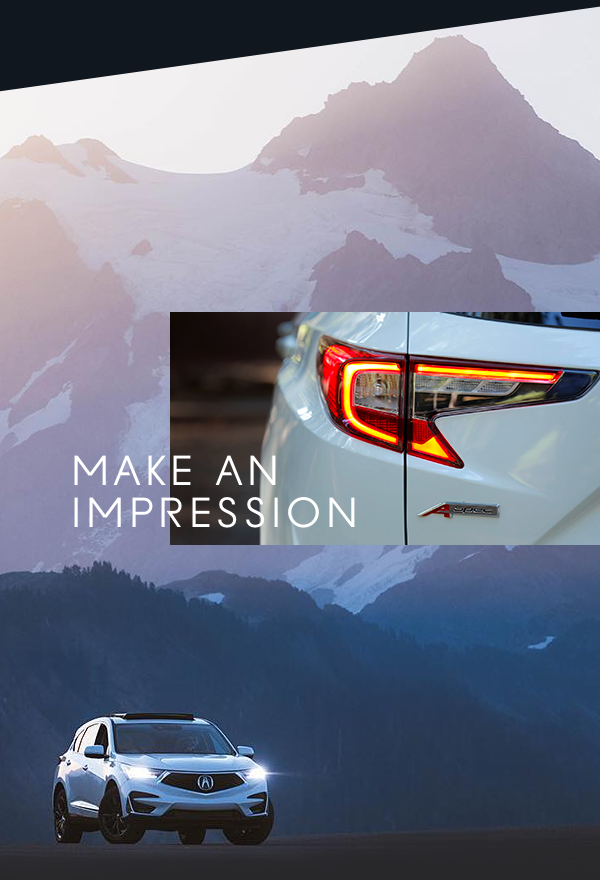
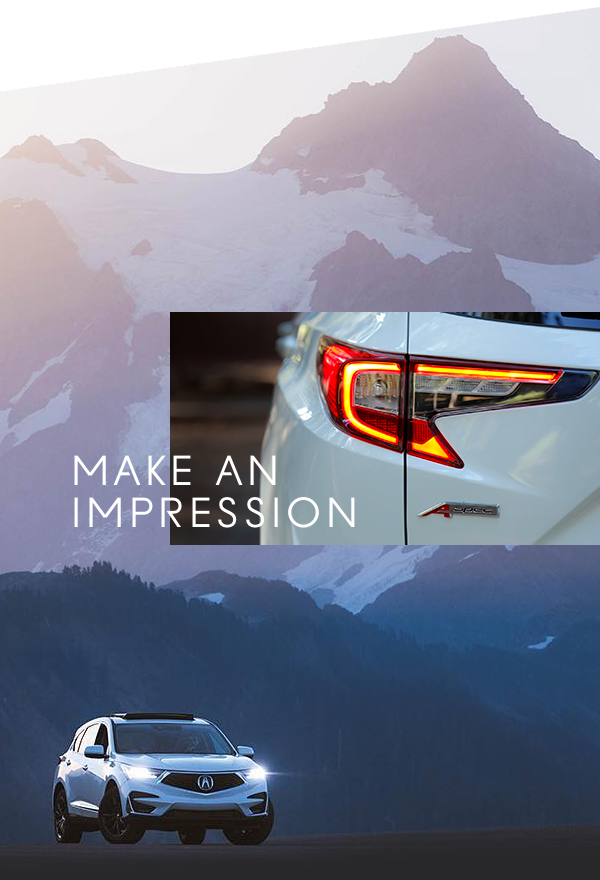
2019-March_RDX updates to images, txt and more

Changed region(s): [[0.0, 0.0, 1.0, 0.1227]]

diff --git a/review.web/Content/Review/2019-march_rdx_assets.html b/review.web/Content/Review/2019-march_rdx_assets.html
@@ -120,8 +120,8 @@
       }
 
       .acura-body-copy {
-        font-size: 17px !important;
-        line-height: 1.45 !important;
+        font-size: 20px !important;
+        line-height:30px !important;
       }
 
       /* .acura-button-inner-white {font-size: 20px !important;} */
@@ -253,10 +253,10 @@
               <!-- logo -->
               <tr>
                 <td>
-                  <a style="margin:0;padding:0; border:none;text-decoration:none;text-align:center;" href="https://www.acura.com/?SP_RID=%%RECIPIENT_ID%%&amp;SP_MID=%%MAILING_ID%%&amp;PROGRAMID=%%PROGID%%&amp;CAMPAIGNCODE=%%CAMPAIGNCODE%%&amp;OFFERCODE=%%OFFERCODE%%&amp;CELLCODE=%%CELL%%&amp;PID=%%PID%%&amp;LINKNAME=%%LINK_NAME%%"
+                  <a style="margin:0;padding:0; border:none;text-decoration:none;text-align:center;" href="https://www.acura.com/?SP_RID=%%RECIPIENT_ID%%&;SP_MID=%%MAILING_ID%%&;PROGRAMID=%%PROGID%%&;CAMPAIGNCODE=%%CAMPAIGNCODE%%&;OFFERCODE=%%OFFERCODE%%&;CELLCODE=%%CELL%%&;PID=%%PID%%&;LINKNAME=%%LINK_NAME%%"
                     target="_blank"><img style="margin:0 auto;padding:0;border:none !important;outline:none !important;display:block;text-align:center; font-family:Helvetica, Arial, 'Lucida Grande', sans-serif; color:white; font-size:40px; max-width: 600px;"
-                      width="600" height="85" alt="ACURA NEWSLETTER" src="2019-march_rdx_assets/acura_rdx_white_logo.png"
-                      data-original-source="2019-march_rdx_assets/acura_rdx_white_logo.png"></a>
+                      width="600" height="85" alt="ACURA NEWSLETTER" src="2019-march_rdx_assets/black_dual_logos.png"
+                      data-original-source="2019-march_rdx_assets/black_dual_logos.png"></a>
                 </td>
               </tr>
 
@@ -296,7 +296,7 @@
                                         <div class="content acura-body-copy" style="line-height:30px;font-family:'Helvetica Neue', Helvetica, Arial, 'Lucida Grande', sans-serif !important;font-size:16px;text-align:left;color: #ffffff;"
                                           align="left">
                                           With winter finally in the rearview, longer days are ahead. Make the most of
-                                          them in the all-new 2019 RDX.
+                                          them in the all&dash;new 2019 RDX.
                                         </div>
                                       </td>
                                     </tr>
@@ -341,7 +341,7 @@
                                                           <tbody>
                                                             <tr>
                                                               <td valign="top" align="center" style="color:#ffffff!important; vertical-align:middle;padding:16px 30px;border-width:2px;border-style:solid;border-color:#e82c2a;background-color:#10171F;font-family:Helvetica, Arial, 'Lucida Grande', sans-serif;font-size:16px;text-align:center;">
-                                                                <a class="acura-button-inner-white" href="https://www.acura.com/rdx?SP_RID=%%RECIPIENT_ID%%&amp;SP_MID=%%MAILING_ID%%&amp;PROGRAMID=%%PROGID%%&amp;CAMPAIGNCODE=%%CAMPAIGNCODE%%&amp;OFFERCODE=%%OFFERCODE%%&amp;CELLCODE=%%CELL%%&amp;PID=%%PID%%&amp;LINKNAME=%%LINK_NAME%%"
+                                                                <a class="acura-button-inner-white" href="https://www.acura.com/rdx?SP_RID=%%RECIPIENT_ID%%&;SP_MID=%%MAILING_ID%%&;PROGRAMID=%%PROGID%%&;CAMPAIGNCODE=%%CAMPAIGNCODE%%&;OFFERCODE=%%OFFERCODE%%&;CELLCODE=%%CELL%%&;PID=%%PID%%&;LINKNAME=%%LINK_NAME%%"
                                                                   target="_blank" style="color:#ffffff !important; text-decoration:none;border:none;font-weight:bold !important;display:inline-block;font-family:'HelveticaNeue-Bold', 'Helvetica Neue Bold', 'Helvetica Neue', Helvetica, Arial, 'Lucida Grande', sans-serif !important;font-size:16px;text-align:center; display: block;">EXPLORE
                                                                   THE RDX</a>
                                                               </td>
@@ -385,7 +385,7 @@
                                                       <td style="vertical-align:top;width:34px;height:34px;" valign="top" height="34" width="34">
                                                         <table style="width:auto;margin:0 auto;" width="auto" cellpadding="0" cellspacing="0" border="0">
                                                           <tbody><tr>
-                                                            <td class="acura-button" style="vertical-align:middle;display:inline-block;line-height:1px;padding:0;border-width:2px;border-style:solid;border-color:#ffffff;background-color:#ffffff;font-family:'Helvetica Neue', Helvetica, Arial, 'Lucida Grande', sans-serif;font-size:16px;text-align:left;color:#000000;" valign="middle" align="left"><a class="acura-button-inner" href="https://www.acura.com/build-price/rdx/?SP_RID=%%RECIPIENT_ID%%&amp;SP_MID=%%MAILING_ID%%&amp;PROGRAMID=%%PROGID%%&amp;CAMPAIGNCODE=%%CAMPAIGNCODE%%&amp;OFFERCODE=%%OFFERCODE%%&amp;CELLCODE=%%CELL%%&amp;PID=%%PID%%&amp;LINKNAME=%%LINK_NAME%%&amp;FROM=%%MAILING_NAME%%" target="_blank" style="text-decoration:none;line-height:16px;font-weight:bold;display:inline-block;font-family:'HelveticaNeue-Bold', 'Helvetica Neue Bold', 'Helvetica Neue', Helvetica, Arial, 'Lucida Grande', sans-serif;font-size:16px;text-align:center;color:#e82c2a;" align="center"><font color="#e82c2a"><img style="margin:0 auto;padding:0;border:0px none;outline:0px none;display:block;text-align:center;line-height:30px;width:30px;height:30px;" height="30" width="30" alt="" src="2019-march_rdx_assets/link-arrow-2x-dark-blue.jpg" data-original-source="2019-march_rdx_assets/link-arrow-2x-dark-blue.jpg"></font></a>
+                                                            <td class="acura-button" style="vertical-align:middle;display:inline-block;line-height:1px;padding:0;border-width:2px;border-style:solid;border-color:#ffffff;background-color:#ffffff;font-family:'Helvetica Neue', Helvetica, Arial, 'Lucida Grande', sans-serif;font-size:16px;text-align:left;color:#000000;" valign="middle" align="left"><a class="acura-button-inner" href="https://www.acura.com/build-price/rdx/?SP_RID=%%RECIPIENT_ID%%&;SP_MID=%%MAILING_ID%%&;PROGRAMID=%%PROGID%%&;CAMPAIGNCODE=%%CAMPAIGNCODE%%&;OFFERCODE=%%OFFERCODE%%&;CELLCODE=%%CELL%%&;PID=%%PID%%&;LINKNAME=%%LINK_NAME%%&;FROM=%%MAILING_NAME%%" target="_blank" style="text-decoration:none;line-height:16px;font-weight:bold;display:inline-block;font-family:'HelveticaNeue-Bold', 'Helvetica Neue Bold', 'Helvetica Neue', Helvetica, Arial, 'Lucida Grande', sans-serif;font-size:16px;text-align:center;color:#e82c2a;" align="center"><font color="#e82c2a"><img style="margin:0 auto;padding:0;border:0px none;outline:0px none;display:block;text-align:center;line-height:30px;width:30px;height:30px;" height="30" width="30" alt="" src="2019-march_rdx_assets/link-arrow-2x-dark-blue.jpg" data-original-source="2019-march_rdx_assets/link-arrow-2x-dark-blue.jpg"></font></a>
                                                             </td>
                                                           </tr>
                                                         </tbody></table>
@@ -393,7 +393,7 @@
                                                       <td style="vertical-align:middle;width:16px;height:34px;text-align:left;" valign="middle" align="left" height="34" width="16"><img class="spacer" style="margin:0 auto;padding:0;border:0px none;outline:0px none;display:block;text-align:left;width:16px;height:1px;" src="2019-march_rdx_assets/spacer.png" height="1" width="16" data-original-source="2019-march_rdx_assets/spacer.png">
                                                       </td>
                                                       <td class="acura-button-inner-white" style="vertical-align:middle;height:34px;text-align:left;" valign="middle" align="left" height="34">
-                                                        <div class="acura-button-arrow-text" style="color:#ffffff;text-align:left;font-size:15px;font-family:'Helvetica Neue', Helvetica, Arial, 'Lucida Grande', sans-serif;font-weight:bold;line-height:15px;text-decoration:none;"><a class="acura-button-inner-white" href="https://www.acura.com/build-price/rdx/?SP_RID=%%RECIPIENT_ID%%&amp;SP_MID=%%MAILING_ID%%&amp;PROGRAMID=%%PROGID%%&amp;CAMPAIGNCODE=%%CAMPAIGNCODE%%&amp;OFFERCODE=%%OFFERCODE%%&amp;CELLCODE=%%CELL%%&amp;PID=%%PID%%&amp;LINKNAME=%%LINK_NAME%%&amp;FROM=%%MAILING_NAME%%" target="_blank" style="color:#ffffff !important; text-decoration:none;border:none;font-weight:bold !important;display:inline-block;font-family:'HelveticaNeue-Bold', 'Helvetica Neue Bold', 'Helvetica Neue', Helvetica, Arial, 'Lucida Grande', sans-serif;font-size:16px;text-align:center;" align="center">BUILD &amp; PRICE YOUR RDX&nbsp;</a>
+                                                        <div class="acura-button-arrow-text" style="color:#ffffff;text-align:left;font-size:15px;font-family:'Helvetica Neue', Helvetica, Arial, 'Lucida Grande', sans-serif;font-weight:bold;line-height:15px;text-decoration:none;"><a class="acura-button-inner-white" href="https://www.acura.com/build-price/rdx/?SP_RID=%%RECIPIENT_ID%%&;SP_MID=%%MAILING_ID%%&;PROGRAMID=%%PROGID%%&;CAMPAIGNCODE=%%CAMPAIGNCODE%%&;OFFERCODE=%%OFFERCODE%%&;CELLCODE=%%CELL%%&;PID=%%PID%%&;LINKNAME=%%LINK_NAME%%&;FROM=%%MAILING_NAME%%" target="_blank" style="color:#ffffff !important; text-decoration:none;border:none;font-weight:bold !important;display:inline-block;font-family:'HelveticaNeue-Bold', 'Helvetica Neue Bold', 'Helvetica Neue', Helvetica, Arial, 'Lucida Grande', sans-serif;font-size:16px;text-align:center;" align="center">BUILD &amp; PRICE YOUR RDX&nbsp;</a>
                                                         </div>
                                                       </td>
                                                     </tr>
@@ -426,155 +426,106 @@
                       </td>
                     </tr>
 
-              <!-- Divider / Angle -->
+                  </table>
+                </td>
+              </tr>
+
+
+              <tr><td align="center" valign="top">
+                <img width="600" height="110" style="margin:0 auto;padding:0;border:none !important;outline:none !important;display:block;text-align:center; margin-top:-1px !important;" src="2019-march_rdx_assets/slant-bottom-black.png" data-original-source="2019-march_rdx_assets/black_angle.png">
+              </td></tr>
+
+              <!-- Featured Special Lease Offer -->
+              <tr><td>
+                <table class="content-container" style="width:100%;" width="100%" cellpadding="0" cellspacing="0" border="0">
+                  <tbody>
+                    <tr>
+                      <td width="102"><img class="spacer col-space-content-container" style="margin:0 auto;padding:0;border:none !important;outline:none !important;display:block;text-align:center;" src="2019-march_rdx_assets/rdx-offer.png" height="1" width="102" data-original-source="2019-march_rdx_assets/rdx-offer.png">
+                      </td><td width="396" valign="middle">
+                      <a target="_blank" href="https://www.acura.com/tools/current-luxury-car-suv-offers-leasing?vehiclemodelseries=rdx" style="margin:0;padding:0; border:none;text-decoration:none;font-size:36px;color:#ffffff;display:block; background-color:#ffffff;"><img style="margin:0 auto; padding:0;border:none !important;outline:none !important;display:block;text-align:center;color:black;width:100%;max-width: 396px;" height="413" width="387.5" alt="Expires 04/01/19 - 2019 TLX - Speed Automatic Featured Special Lease - $299 Per month for 36 months. - $2,499 Total due at signing. -Includes down payment with no security deposit. Excludes taxes, titles and either dealer fees or documentary service fee. For well-qualified lessees" src="2019-march_rdx_assets/rdx-offer.png" data-original-source="2019-march_rdx_assets/rdx-offer.png"></a>
+                      </td>
+                      <td width="102"><img class="spacer col-space-content-container" style="margin:0 auto;padding:0;border:none !important;outline:none !important;display:block;text-align:center;" src="2019-march_rdx_assets/spacer.png" height="1" width="102" data-original-source="2019-march_rdx_assets/spacer.png">
+                    </td></tr>
+                  </tbody>
+                </table>
+              </td></tr>
+              <tr><td><img class="spacer line-space-large" style="margin:0 auto;padding:0;border:none !important;outline:none !important;display:block;text-align:center;" src="2019-march_rdx_assets/spacer.png" height="25" data-original-source="2019-march_rdx_assets/spacer.png"></td></tr>
+
+              <!-- CTA | View Offer -->
+              <tr><td align="center" valign="top">
+                <table class="content-container" style="width:100%;" width="100%" cellpadding="0" cellspacing="0" border="0">
+                  <tbody><tr>
+                    <td style="width:50px;" width="50"><img class="spacer col-space-content-container" style="margin:0 auto;padding:0;border:none !important;outline:none !important;display:block;text-align:center;" src="2019-march_rdx_assets/spacer.png" height="1" width="50" data-original-source="2019-march_rdx_assets/spacer.png"></td>
+                    <td>
+                      <!-- CTA -->
+                      <table class="content-container" width="100%" cellpadding="0" cellspacing="0" border="0" align="center">
+                        <tbody><tr>
+                          <td style="vertical-align:middle;text-align:center;" valign="middle" align="center">
+                            <table style="margin: 0 auto !important; width:auto;text-align:center;height:34px;text-decoration:none;display:table;" width="auto" cellpadding="0" cellspacing="0" border="0" align="center">
+                              <tbody>
+                               <tr><td valign="top" align="center" style="color:#000000 !important; vertical-align:middle;padding:16px 87px;border-width:2px;border-style:solid;border-color:#e82c2a;background-color:#ffffff;font-family:Helvetica, Arial, 'Lucida Grande', sans-serif;font-size:16px;text-align:center;">
+                                  <a class="acura-button-inner" href="https://www.acura.com/tools/current-luxury-car-suv-offers-leasing?vehiclemodelseries=rdx" target="_blank" style="color:#000000 !important; text-decoration:none;border:none;font-weight:bold !important;display:inline-block;font-family:'HelveticaNeue-Bold', 'Helvetica Neue Bold', 'Helvetica Neue', Helvetica, Arial, 'Lucida Grande', sans-serif !important;font-size:16px;text-align:center;" align="center">&nbsp;&nbsp;VIEW OFFER&nbsp;&nbsp;</a>
+                                </td></tr>
+                              </tbody>
+                            </table>
+                          </td>
+                        </tr>
+                      </tbody></table>
+                    </td>
+                    <td style="width:50px;" width="50"><img class="spacer col-space-content-container" style="margin:0 auto;padding:0;border:none !important;outline:none !important;display:block;text-align:center;" src="2019-march_rdx_assets/spacer.png" height="1" width="50" data-original-source="2019-march_rdx_assets/spacer.png"></td>
+                  </tr>
+
+                  <tr>
+                    <td style="width:50px;" width="50"><img class="spacer col-space-content-container" style="margin:0 auto;padding:0;border:none !important;outline:none !important;display:block;text-align:center;" src="2019-march_rdx_assets/spacer.png" height="1" width="50" data-original-source="2019-march_rdx_assets/spacer.png">
+                    </td>
+                    <td class="content-container-cell" style="font-family:Helvetica, Arial, 'Lucida Grande', sans-serif;">
+                      <img class="spacer line-space-large" style="margin:0 auto;padding:0;border:none !important;outline:none !important;display:block;text-align:center;width:1px;" src="2019-march_rdx_assets/spacer.png" height="30" width="1" data-original-source="2019-march_rdx_assets/spacer.png">
+                    </td>
+                    <td style="width:50px;" width="50"><img class="spacer col-space-content-container" style="margin:0 auto;padding:0;border:none !important;outline:none !important;display:block;text-align:center;" src="2019-march_rdx_assets/spacer.png" height="1" width="50" data-original-source="2019-march_rdx_assets/spacer.png">
+                    </td>
+                  </tr>
+                </tbody></table>
+              </td></tr>
+
+
+              <!-- Make an Impression | IMG ) -->
               <tr>
                 <td>
-                  <table class="content-container" style="width:100%;" width="100%" cellpadding="0" cellspacing="0"
-                    border="0">
-                    <tbody>
-                      <tr>
-                        <td valign="middle">
-                          <img style="margin:0 auto;padding:0;border:none !important;outline:none !important;display:block;text-align:center;color:black;width:100%;max-width: 600px;font-family:Helvetica, Arial;font-size:22px;"
-                            width="600" height="100" alt="Divider" src="2019-march_rdx_assets/Divider01.png"
-                            data-original-source="2019-march_rdx_assets/Divider01.png">
-                        </td>
-                      </tr>
-                    </tbody>
-                  </table>
-                </td>
-              </tr>
-                  </table>
+                  <a target="_blank" href="https://www.acura.com/rdx/?SP_RID=%%RECIPIENT_ID%%&;SP_MID=%%MAILING_ID%%&;PROGRAMID=%%PROGID%%&;CAMPAIGNCODE=%%CAMPAIGNCODE%%&;OFFERCODE=%%OFFERCODE%%&;CELLCODE=%%CELL%%&;PID=%%PID%%&;LINKNAME=%%LINK_NAME%%&;CID=%%CID%%" style="margin:0; margin-top:-1px !important; padding:0; border:none;text-decoration:none;font-size:36px;color:#ffffff;display:block; background-color:#ffffff;"><img style="margin:0 auto; padding:0;border:none !important;outline:none !important;display:block;text-align:center;color:black;width:100%;max-width: 600px;" height="880" width="600" alt="2019 Acura RDX in White Diamond Pearl" src="2019-march_rdx_assets/make_an_impression.png"></a>
                 </td>
               </tr>
 
 
-              <!-- 2 panels ( Make an Impression | IMG ) -->
-              <tr>
-                <td>
-                  <table class="content-container" width="600" cellpadding="0" cellspacing="0" border="0" bgcolor="#FFFFFF"
-                    style="min-width:600px;">
-                    <tbody>
-                      <tr>
+              <tr bgcolor="#29292B"><td align="center" valign="top">
+                <table class="content-container" style="width:100%;" width="100%" cellpadding="0" cellspacing="0" border="0">
+                  <tbody>
+                    <tr>
+                      <td width="40"><img class="spacer col-space-content-container" style="margin:0 auto;padding:0;border:none !important;outline:none !important;display:block;text-align:center;" src="2019-march_rdx_assets/" height="1" width="40" data-original-source="2019-march_rdx_assets/">
+                      </td>
+                      <td width="520" class="content-container-cell" style="font-family:Helvetica, Arial, 'Lucida Grande', sans-serif;">
+                        <table width="520" cellpadding="0" cellspacing="0" border="0">
+                          <tbody>
+                            <tr>
+                              <td class="content-container-cell" style="font-family:Helvetica, Arial, 'Lucida Grande', sans-serif;">
+                                <div class="content acura-body-copy" style="line-height:30px;font-family:'Helvetica Neue', Helvetica, Arial, 'Lucida Grande', sans-serif !important;font-size:16px;text-align:left;color: #ffffff;" align="left">
+                                  Showcasing our most extensive redesign in years, the RDX mirrors the low, wide and sleek presence of the <span style="display:inline-block;">Acura Precision Concept</span>.
+                                </div>
+                                <img class="spacer line-space-large" style="margin:0 auto;padding:0;border:none !important;outline:none !important;display:block;text-align:center;width:1px;" src="2019-march_rdx_assets/" height="15" width="1" data-original-source="2019-march_rdx_assets/">
+                                <div class="content acura-body-copy" style="line-height:30px;font-family:'Helvetica Neue', Helvetica, Arial, 'Lucida Grande', sans-serif !important;font-size:16px;text-align:left;color: #ffffff;" align="left">
+                                  The dynamic new design flows outward from the SUV&apos;s signature <span style="display:inline-block;">Diamond Pentagon Grille</span> to its sharply sculpted body featuring all-LED exterior lighting.
+                                </div>
+                              </td>
+                            </tr>
+                          </tbody>
+                        </table>
+                      </td>
+                      <td width="40"><img class="spacer col-space-content-container" style="margin:0 auto;padding:0;border:none !important;outline:none !important;display:block;text-align:center;" src="2019-march_rdx_assets/" height="1" width="40" data-original-source="2019-march_rdx_assets/">
+                      </td>
+                    </tr>
+                  </tbody>
+                </table>
+              </td></tr>
 
-                        <td valign="middle">
-                          <!-- Left Panel -->
-                          <table class="content-container" width="300" cellpadding="0" cellspacing="0" border="0"
-                            bgcolor="#FFFFFF" style="min-width:300px;">
-                            <tbody>
-                              <!-- Left Body -->
-                              <tr>
-                                <td>
-                                  <table class="content-container" width="300" cellpadding="0" cellspacing="0" border="0"
-                                    bgcolor="#FFFFFF" style="min-width:300px;">
-                                    <tbody>
-                                      <tr>
-                                        <!-- Top Left Margin -->
-                                        <td width="40">
-                                          <img class="spacer col-space-content-container" style="margin:0 auto;padding:0;border:none !important;outline:none !important;display:block;text-align:center;"
-                                            src="2019-march_rdx_assets/spacer.png" height="1" width="40"
-                                            data-original-source="2019-march_rdx_assets/spacer.png">
-                                        </td>
-
-                                        <td class="content-container-cell" style="font-family:Helvetica, Arial, 'Lucida Grande', sans-serif;"
-                                          align="left">
-                                          <div class="content acura-header" style="line-height:1.4;font-family:'HelveticaNeue', 'Helvetica Neue', 'Helvetica Neue', Helvetica, Arial, 'Lucida Grande', sans-serif !important;font-size:24px;text-align:left;color:#000000; font-weight:bold; text-transform:uppercase;"
-                                            align="left">
-                                            MAKE AN IMPRESSION
-                                          </div>
-                                          <img class="spacer line-space-large" style="margin:0 auto;padding:0;border:none !important;outline:none !important;display:block;text-align:center;width:1px;"
-                                            src="2019-march_rdx_assets/spacer.png" height="15" width="1"
-                                            data-original-source="2019-march_rdx_assets/spacer.png">
-                                          <img class="" style="margin:0;padding:0;border:none !important;outline:none !important;display:inline-block;text-align:left;"
-                                            src="2019-march_rdx_assets/redline.gif" height="6" width="45"
-                                            data-original-source="2019-march_rdx_assets/redline.gif">
-                                          <img class="spacer line-space-large" style="margin:0 auto;padding:0;border:none !important;outline:none !important;display:block;text-align:center;"
-                                            src="2019-march_rdx_assets/spacer.png" height="25" data-original-source="2019-march_rdx_assets/spacer.png">
-                                        </td>
-
-                                        <!-- Top Right Margin -->
-                                        <td width="26">
-                                          <img class="spacer col-space-content-container" style="margin:0 auto;padding:0;border:none !important;outline:none !important;display:block;text-align:center;"
-                                            src="2019-march_rdx_assets/spacer.png" height="1" width="26"
-                                            data-original-source="2019-march_rdx_assets/spacer.png">
-                                        </td>
-                                      </tr>
-
-                                    </tbody>
-                                  </table>
-                                </td>
-                              </tr>
-
-
-                              <tr>
-                                <td>
-                                  <table class="content-container" width="300" cellpadding="0" cellspacing="0" border="0"
-                                    bgcolor="#FFFFFF" style="min-width:300px;">
-                                    <tbody>
-                                      <tr>
-                                        <!-- Top Left Margin -->
-                                        <td width="40">
-                                          <img class="spacer col-space-content-container" style="margin:0 auto;padding:0;border:none !important;outline:none !important;display:block;text-align:center;"
-                                            src="2019-march_rdx_assets/spacer.png" height="1" width="40"
-                                            data-original-source="2019-march_rdx_assets/spacer.png">
-                                        </td>
-
-
-                                        <td class="content-container" style="font-family:Helvetica, Arial, 'Lucida Grande', sans-serif;"
-                                          align="left">
-                                          <div class="content acura-body-copy" style="line-height:30px;font-family:'Helvetica Neue', Helvetica, Arial, 'Lucida Grande', sans-serif !important;font-size:16px;text-align:left;color:#000000;">
-                                            Showcasing our most extensive redesign in years, the RDX mirrors the low,
-                                            wide and sleek presence of the <span style="display:inline-block;">Acura Precision Concept</span>.
-                                          </div>
-
-                                          <img class="spacer line-space-large" style="margin:0 auto;padding:0;border:none !important;outline:none !important;display:block;text-align:center;width:1px;"
-                                            src="2019-march_rdx_assets/spacer.png" height="29" width="1">
-
-                                          <div class="content acura-body-copy" style="line-height:30px;font-family:'Helvetica Neue', Helvetica, Arial, 'Lucida Grande', sans-serif !important;font-size:16px;text-align:left;color:#000000;">The dynamic new design flows outward from the <span style="display:inline-block;">Diamond Pentagon Grille</span> to its sharply sculpted body featuring all&dash;LED exterior lighting.</div>
-                                        </td>
-
-                                        <!-- Top Right Margin -->
-                                        <td width="26">
-                                          <img class="spacer col-space-content-container" style="margin:0 auto;padding:0;border:none !important;outline:none !important;display:block;text-align:center;"
-                                            src="2019-march_rdx_assets/spacer.png" height="1" width="26"
-                                            data-original-source="2019-march_rdx_assets/spacer.png">
-                                        </td>
-                                      </tr>
-
-                                    </tbody>
-                                  </table>
-                                </td>
-                              </tr>
-
-                              <!-- Bottom Spacing -->
-                              <!-- <tr>
-                                <td height="43">&nbsp;</td>
-                              </tr> -->
-
-                            </tbody>
-                          </table>
-                        </td>
-
-                        <td>
-                          <!-- Right Panel -->
-                          <table class="content-container" width="300" cellpadding="0" cellspacing="0" border="0"
-                            bgcolor="#FFFFFF" style="min-width:300px;">
-                            <tbody>
-                              <tr>
-                                <td>
-                                  <img style="margin:0 auto; padding:0;border:none !important;outline:none !important;display:block;text-align:center; font-family:Helvetica, Arial, 'Lucida Grande', sans-serif; color:white; font-size:40px; max-width: 300px;"
-                                    width="300" height="604" alt="2019 Acura RDX in White Diamond Pearl" src="2019-march_rdx_assets/mountains_split.png"
-                                    data-original-source="2019-march_rdx_assets/mountains_split.png">
-                                </td>
-                              </tr>
-                            </tbody>
-                          </table>
-                        </td>
-                      </tr>
-                    </tbody>
-                  </table>
-
-                </td>
-              </tr>
 
               <!-- BLUE SECTION -->
               <tr>
@@ -586,10 +537,10 @@
                       <!-- IMG | White RDX  -->
                       <tr>
                         <td>
-                          <a target="_blank" href="https://www.acura.com/rdx/?SP_RID=%%RECIPIENT_ID%%&amp;SP_MID=%%MAILING_ID%%&amp;PROGRAMID=%%PROGID%%&amp;CAMPAIGNCODE=%%CAMPAIGNCODE%%&amp;OFFERCODE=%%OFFERCODE%%&amp;CELLCODE=%%CELL%%&amp;PID=%%PID%%&amp;LINKNAME=%%LINK_NAME%%&amp;CID=%%CID%%"
-                            style="margin:0; margin-top:-1px !important; padding:0; border:none;text-decoration:none;font-size:36px;color:#ffffff;display:block; background-color:#ffffff;"><img
+                          <a target="_blank" href="https://www.acura.com/rdx/?SP_RID=%%RECIPIENT_ID%%&;SP_MID=%%MAILING_ID%%&;PROGRAMID=%%PROGID%%&;CAMPAIGNCODE=%%CAMPAIGNCODE%%&;OFFERCODE=%%OFFERCODE%%&;CELLCODE=%%CELL%%&;PID=%%PID%%&;LINKNAME=%%LINK_NAME%%&;CID=%%CID%%"
+                            style="margin:0; margin-top:-1px !important; padding:0; border:none;text-decoration:none;font-size:36px;color:#ffffff;display:block; background-color:#29292B;"><img
                               style="margin:0 auto; padding:0;border:none !important;outline:none !important;display:block;text-align:center;color:black;width:100%;max-width: 600px;"
-                              height="397" width="600" alt="2019 Acura RDX in White Diamond Pearl" src="2019-march_rdx_assets/Sophisticated_Styling.png"></a>
+                              height="397" width="600" alt="2019 Acura RDX in White Diamond Pearl" src="2019-march_rdx_assets/white_rdx_forest.png"></a>
                         </td>
                       </tr>
 
@@ -683,7 +634,7 @@
                             src="2019-march_rdx_assets/spacer.png" height="1" width="38" data-original-source="2019-march_rdx_assets/spacer.png">
                         </td>
                         <td width="500" class="content-container-cell" style="font-family:Helvetica, Arial, 'Lucida Grande', sans-serif;">
-                          <a target="_blank" href="https://www.acura.com/rdx?SP_RID=%%RECIPIENT_ID%%&amp;SP_MID=%%MAILING_ID%%&amp;PROGRAMID=%%PROGID%%&amp;CAMPAIGNCODE=%%CAMPAIGNCODE%%&amp;OFFERCODE=%%OFFERCODE%%&amp;CELLCODE=%%CELL%%&amp;PID=%%PID%%&amp;LINKNAME=%%LINK_NAME%%"
+                          <a target="_blank" href="https://www.acura.com/rdx?SP_RID=%%RECIPIENT_ID%%&;SP_MID=%%MAILING_ID%%&;PROGRAMID=%%PROGID%%&;CAMPAIGNCODE=%%CAMPAIGNCODE%%&;OFFERCODE=%%OFFERCODE%%&;CELLCODE=%%CELL%%&;PID=%%PID%%&;LINKNAME=%%LINK_NAME%%"
                             style="margin:0;padding:0; border:none;text-decoration:none;text-align:center;font-size:36px;color:#000000;display:block;">
                             <img width="500" height="270" alt="2019 Acura RDX Parchment Interior - Center Display, Touch-Screen" src="2019-march_rdx_assets/RDX_Interior.png"
                               style="margin:0 auto; padding:0; border:none !important; outline:none!important; display:block; text-align:center; color:black;width:100%; max-width:507px; font-family:Helvetica, Arial;font-size:22px; " data-original-source="2019-march_rdx_assets/Motorsports-Image01.png"></a>
@@ -745,7 +696,7 @@
                             src="2019-march_rdx_assets/spacer.png" height="1" width="38" data-original-source="2019-march_rdx_assets/spacer.png">
                         </td>
                         <td width="500" class="content-container-cell" style="font-family:Helvetica, Arial, 'Lucida Grande', sans-serif;">
-                          <a target="_blank" href="https://www.acura.com/rdx?SP_RID=%%RECIPIENT_ID%%&amp;SP_MID=%%MAILING_ID%%&amp;PROGRAMID=%%PROGID%%&amp;CAMPAIGNCODE=%%CAMPAIGNCODE%%&amp;OFFERCODE=%%OFFERCODE%%&amp;CELLCODE=%%CELL%%&amp;PID=%%PID%%&amp;LINKNAME=%%LINK_NAME%%"
+                          <a target="_blank" href="https://www.acura.com/rdx?SP_RID=%%RECIPIENT_ID%%&;SP_MID=%%MAILING_ID%%&;PROGRAMID=%%PROGID%%&;CAMPAIGNCODE=%%CAMPAIGNCODE%%&;OFFERCODE=%%OFFERCODE%%&;CELLCODE=%%CELL%%&;PID=%%PID%%&;LINKNAME=%%LINK_NAME%%"
                             style="margin:0;padding:0; border:none;text-decoration:none;text-align:center;font-size:36px;color:#000000;display:block;"><img
                               width="500" height="270" alt="2019 Acura RDX Trunk Storage Compartment" src="2019-march_rdx_assets/Cargo-Space-Animation.gif"
                               style="margin:0 auto;padding:0;border:none !important;outline:none !important;display:block;text-align:center;color:black;width:100%;max-width: 507px;font-family:Helvetica, Arial;font-size:22px;"
@@ -802,7 +753,7 @@
                 <td>
                   <table class="content-container" bgcolor="#ffffff" width="600" cellpadding="0" cellspacing="0" border="0" style="background: #fff;"><tbody><tr><td>
 
-                    <a target="_blank" href="https://www.acura.com/rdx/?SP_RID=%%RECIPIENT_ID%%&amp;SP_MID=%%MAILING_ID%%&amp;PROGRAMID=%%PROGID%%&amp;CAMPAIGNCODE=%%CAMPAIGNCODE%%&amp;OFFERCODE=%%OFFERCODE%%&amp;CELLCODE=%%CELL%%&amp;PID=%%PID%%&amp;LINKNAME=%%LINK_NAME%%&amp;CID=%%CID%%"
+                    <a target="_blank" href="https://www.acura.com/rdx/?SP_RID=%%RECIPIENT_ID%%&;SP_MID=%%MAILING_ID%%&;PROGRAMID=%%PROGID%%&;CAMPAIGNCODE=%%CAMPAIGNCODE%%&;OFFERCODE=%%OFFERCODE%%&;CELLCODE=%%CELL%%&;PID=%%PID%%&;LINKNAME=%%LINK_NAME%%&;CID=%%CID%%"
                     style="margin:0;padding:0; border:none;text-decoration:none;font-size:36px;color:#ffffff;display:block;"><img
                       style="margin:0 auto; margin-top: -1px; padding:0;border:none !important;outline:none !important;display:block;text-align:center;color:black;width:100%;max-width: 600px;"
                       height="591" width="600" alt="2019 Acura RDX Panoramic Sliding Moonroof" src="2019-march_rdx_assets/Moon_Roof.png"></a>
@@ -906,7 +857,7 @@
                     src="2019-march_rdx_assets/spacer.png" height="1" width="38" data-original-source="2019-march_rdx_assets/spacer.png">
                 </td>
                 <td width="500" class="content-container-cell" style="font-family:Helvetica, Arial, 'Lucida Grande', sans-serif;">
-                  <a target="_blank" href="https://www.acura.com/rdx?SP_RID=%%RECIPIENT_ID%%&amp;SP_MID=%%MAILING_ID%%&amp;PROGRAMID=%%PROGID%%&amp;CAMPAIGNCODE=%%CAMPAIGNCODE%%&amp;OFFERCODE=%%OFFERCODE%%&amp;CELLCODE=%%CELL%%&amp;PID=%%PID%%&amp;LINKNAME=%%LINK_NAME%%"
+                  <a target="_blank" href="https://www.acura.com/rdx?SP_RID=%%RECIPIENT_ID%%&;SP_MID=%%MAILING_ID%%&;PROGRAMID=%%PROGID%%&;CAMPAIGNCODE=%%CAMPAIGNCODE%%&;OFFERCODE=%%OFFERCODE%%&;CELLCODE=%%CELL%%&;PID=%%PID%%&;LINKNAME=%%LINK_NAME%%"
                     style="margin:0;padding:0; border:none;text-decoration:none;text-align:center;font-size:36px;color:#000000;display:block;"><img
                       width="500" height="270" alt="2019 Acura RDX in Majestic Black Pearl" src="2019-march_rdx_assets/rdx_feel_the_rush.png"
                       style="margin:0 auto; padding:0; border:none !important; outline:none!important; display:block; text-align:center; color:black; width:100%;max-width:507px; font-family:Helvetica, Arial;font-size:22px;" data-original-source="2019-march_rdx_assets/Motorsports-Image01.png"></a>
@@ -1045,7 +996,7 @@
                     src="2019-march_rdx_assets/spacer.png" height="1" width="38" data-original-source="2019-march_rdx_assets/spacer.png">
                 </td>
                 <td width="500" class="content-container-cell" style="font-family:Helvetica, Arial, 'Lucida Grande', sans-serif;">
-                  <a target="_blank" href="https://www.acura.com/rdx?SP_RID=%%RECIPIENT_ID%%&amp;SP_MID=%%MAILING_ID%%&amp;PROGRAMID=%%PROGID%%&amp;CAMPAIGNCODE=%%CAMPAIGNCODE%%&amp;OFFERCODE=%%OFFERCODE%%&amp;CELLCODE=%%CELL%%&amp;PID=%%PID%%&amp;LINKNAME=%%LINK_NAME%%"
+                  <a target="_blank" href="https://www.acura.com/rdx?SP_RID=%%RECIPIENT_ID%%&;SP_MID=%%MAILING_ID%%&;PROGRAMID=%%PROGID%%&;CAMPAIGNCODE=%%CAMPAIGNCODE%%&;OFFERCODE=%%OFFERCODE%%&;CELLCODE=%%CELL%%&;PID=%%PID%%&;LINKNAME=%%LINK_NAME%%"
                     style="margin:0;padding:0; border:none;text-decoration:none;text-align:center;font-size:36px;color:#000000;display:block;"><img
                       width="500" height="270" alt="2019 Acura Adaptive Cruise Control" src="2019-march_rdx_assets/acura_watch.png"
                       style="margin:0 auto;padding:0;border:none !important;outline:none
@@ -1255,7 +1206,7 @@
                                                 <!-- IMG | Color Swatches -->
                                                 <tr>
                                                     <td valign="top" colspan="3">
-                                                      <img width="520" height="380" alt="Side view of 2019 Acura RDX in Apex Blue Pearl - Swatch Color Palette" src="2019-march_rdx_assets/apex_blue.png"/>
+                                                      <a href="https://www.acura.com/build-price/rdx?modelyear=2019&;SP_RID=%%RECIPIENT_ID%%&;SP_MID=%%MAILING_ID%%&;PROGRAMID=%%PROGID%%&;CAMPAIGNCODE=%%CAMPAIGNCODE%%&;OFFERCODE=%%OFFERCODE%%&;CELLCODE=%%CELL%%&;PID=%%PID%%&;LINKNAME=%%LINK_NAME%%"><img width="520" height="380" alt="Side view of 2019 Acura RDX in Apex Blue Pearl - Swatch Color Palette" src="2019-march_rdx_assets/apex_blue.png"/></a>
                                                     </td>
                                                 </tr>
 
@@ -1278,7 +1229,7 @@
 
                                                                                     <tbody><tr>
                                                                                         <td valign="top" align="center" style="color:#000000 !important; vertical-align:middle;padding:16px 30px;border-width:2px;border-style:solid;border-color:#e82c2a;background-color:#ffffff;font-family:Helvetica, Arial, 'Lucida Grande', sans-serif;font-size:16px;text-align:center;">
-                                                                                            <a class="acura-button-inner" href="https://www.acura.com/build-price/rdx?modelyear=2019&amp;SP_RID=%%RECIPIENT_ID%%&amp;SP_MID=%%MAILING_ID%%&amp;PROGRAMID=%%PROGID%%&amp;CAMPAIGNCODE=%%CAMPAIGNCODE%%&amp;OFFERCODE=%%OFFERCODE%%&amp;CELLCODE=%%CELL%%&amp;PID=%%PID%%&amp;LINKNAME=%%LINK_NAME%%" target="_blank" style="color:#000000 !important; text-decoration:none;border:none;font-weight:bold !important;display:inline-block;font-family:'HelveticaNeue-Bold', 'Helvetica Neue Bold', 'Helvetica Neue', Helvetica, Arial, 'Lucida Grande', sans-serif !important;font-size:16px;text-align:center; display: block;" align="center">EXPLORE THE RDX</a>
+                                                                                            <a class="acura-button-inner" href="https://www.acura.com/build-price/rdx?modelyear=2019&;SP_RID=%%RECIPIENT_ID%%&;SP_MID=%%MAILING_ID%%&;PROGRAMID=%%PROGID%%&;CAMPAIGNCODE=%%CAMPAIGNCODE%%&;OFFERCODE=%%OFFERCODE%%&;CELLCODE=%%CELL%%&;PID=%%PID%%&;LINKNAME=%%LINK_NAME%%" target="_blank" style="color:#000000 !important; text-decoration:none;border:none;font-weight:bold !important;display:inline-block;font-family:'HelveticaNeue-Bold', 'Helvetica Neue Bold', 'Helvetica Neue', Helvetica, Arial, 'Lucida Grande', sans-serif !important;font-size:16px;text-align:center; display: block;" align="center">EXPLORE THE RDX</a>
                                                                                         </td>
                                                                                     </tr>
 
@@ -1329,7 +1280,7 @@
                                                                           </td>
                                                                           <td style="vertical-align:middle;height:34px;text-align:left;" valign="middle" align="left" height="34">
                                                                             <div class="acura-button-arrow-text" style="color:#e82c2a;text-align:left;font-size:15px;font-family:'Helvetica Neue', Helvetica, Arial, 'Lucida Grande', sans-serif;font-weight:bold;line-height:15px;text-decoration:none;">
-                                                                              <a class="acura-button-inner-red" href="https://www.acura.com/build-price/rdx/?SP_RID=%%RECIPIENT_ID%%&SP_MID=%%MAILING_ID%%&PROGRAMID=%%PROGID%%&CAMPAIGNCODE=%%CAMPAIGNCODE%%&OFFERCODE=%%OFFERCODE%%&CELLCODE=%%CELL%%&PID=%%PID%%&LINKNAME=%%LINK_NAME%%&FROM=%%MAILING_NAME%%" target="_blank" style="color:#e82c2a !important; text-decoration:none;border:none;font-weight:bold !important;display:inline-block;font-family:'HelveticaNeue-Bold', 'Helvetica Neue Bold', 'Helvetica Neue', Helvetica, Arial, 'Lucida Grande', sans-serif;font-size:16px;text-align:center;" align="center">BUILD &amp; PRICE YOUR RDX&nbsp;</a>
+                                                                              <a class="acura-button-inner-red" href="https://www.acura.com/build-price/rdx/?SP_RID=%%RECIPIENT_ID%%&SP_MID=%%MAILING_ID%%&PROGRAMID=%%PROGID%%&CAMPAIGNCODE=%%CAMPAIGNCODE%%&OFFERCODE=%%OFFERCODE%%&CELLCODE=%%CELL%%&PID=%%PID%%&LINKNAME=%%LINK_NAME%%&FROM=%%MAILING_NAME%%" target="_blank" style="color:#e82c2a !important; text-decoration:none;border:none;font-weight:bold !important;display:inline-block;font-family:'HelveticaNeue-Bold', 'Helvetica Neue Bold', 'Helvetica Neue', Helvetica, Arial, 'Lucida Grande', sans-serif;font-size:16px;text-align:center;" align="center">BUILD PRICE YOUR RDX&nbsp;</a>
                                                                             </div>
                                                                           </td>
                                                                         </tr>
